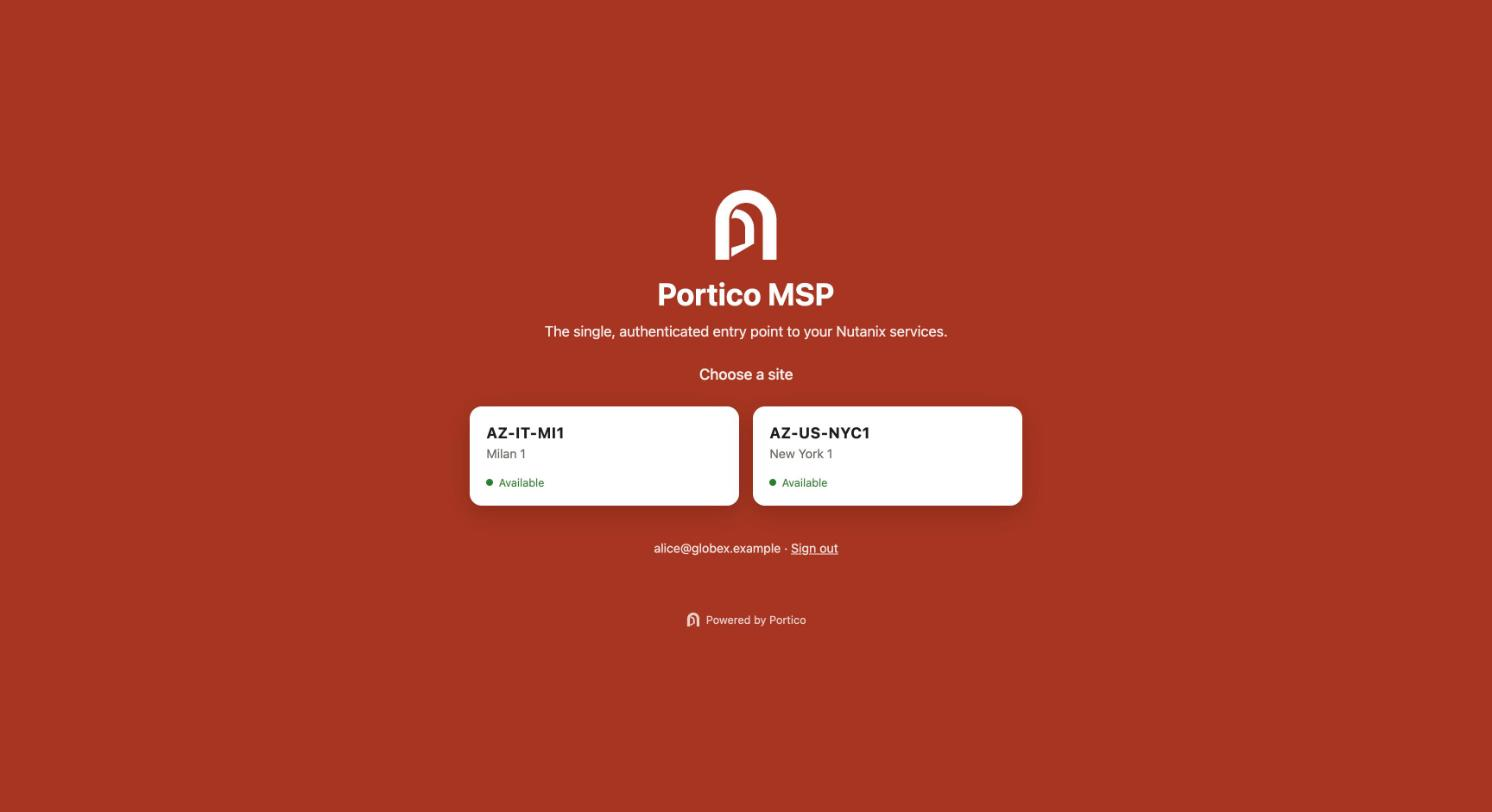
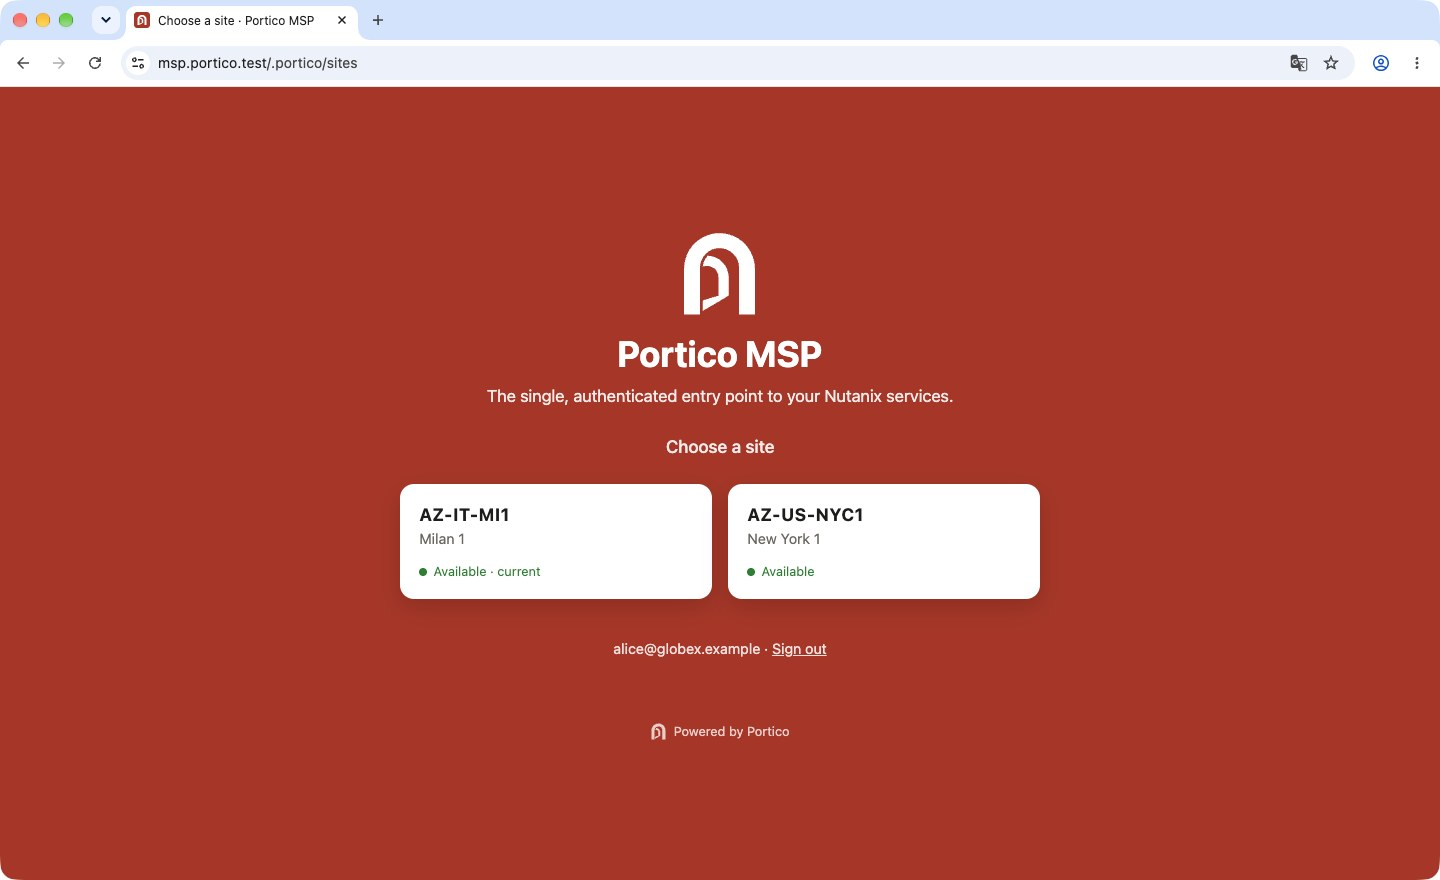
docs: the README shows the whole browser window and six admin pages
The four pictures of 0.3.0 showed only the page. They are retaken as
whole-window captures, with the address bar, and five pages of the admin
UI join them: branding, the setup's sites, a tenant's steps, a site's
networking checks and its routing section. The addresses and object ids
of the test environment are covered with grey boxes.

diff --git a/README.md b/README.md
@@ -82,16 +82,27 @@ flowchart LR
 ## What it looks like
 
 A tenant user signs in once, on the MSP's login page, chooses a site and
-lands in Prism Central inside their own project. The MSP works on the
-internal admin UI.
+lands in Prism Central inside their own project.
 
 | | |
 |---|---|
 | ![The login page, with the MSP's name, claim and colour](docs/images/tenant-login.jpg) | ![The site chooser: AZ-IT-MI1 and AZ-US-NYC1, both available](docs/images/tenant-choose-site.jpg) |
-| ![Prism Central as the tenant sees it: its own project, no VM yet](docs/images/tenant-prism-central.jpg) | ![The tenants list of the admin UI](docs/images/admin-tenants.jpg) |
 
-Taken on a 0.3.0 appliance with two test sites, right after the tenant
-`globex` was created.
+![Prism Central as the tenant sees it: its own project and its two VMs](docs/images/tenant-prism-central.jpg)
+
+The MSP works on the internal admin UI: the tenants, the look of the
+login page, the sites and, for each site, the networking checks and the
+routing of the tenants' prefix.
+
+| | |
+|---|---|
+| ![The tenants list of the admin UI](docs/images/admin-tenants.jpg) | ![The branding page: name, logo, texts and colours, with a preview of the login page](docs/images/admin-branding.jpg) |
+| ![The setup page: two sites and how tenants are named](docs/images/admin-setup-sites.jpg) | ![A tenant's page: the recorded steps of its first site](docs/images/admin-tenant-steps.jpg) |
+| ![A site's networking checks, down to the BGP session and the advertised prefix](docs/images/admin-site-networking.jpg) | ![A site's routing section: the three ways the routed prefix reaches the MSP's network](docs/images/admin-site-routing.jpg) |
+
+Taken on a 0.3.0 appliance with two test sites and one tenant, `globex`,
+with two test VMs. The grey boxes cover the addresses and object ids of
+the test environment.
 
 ## How a request flows
 
